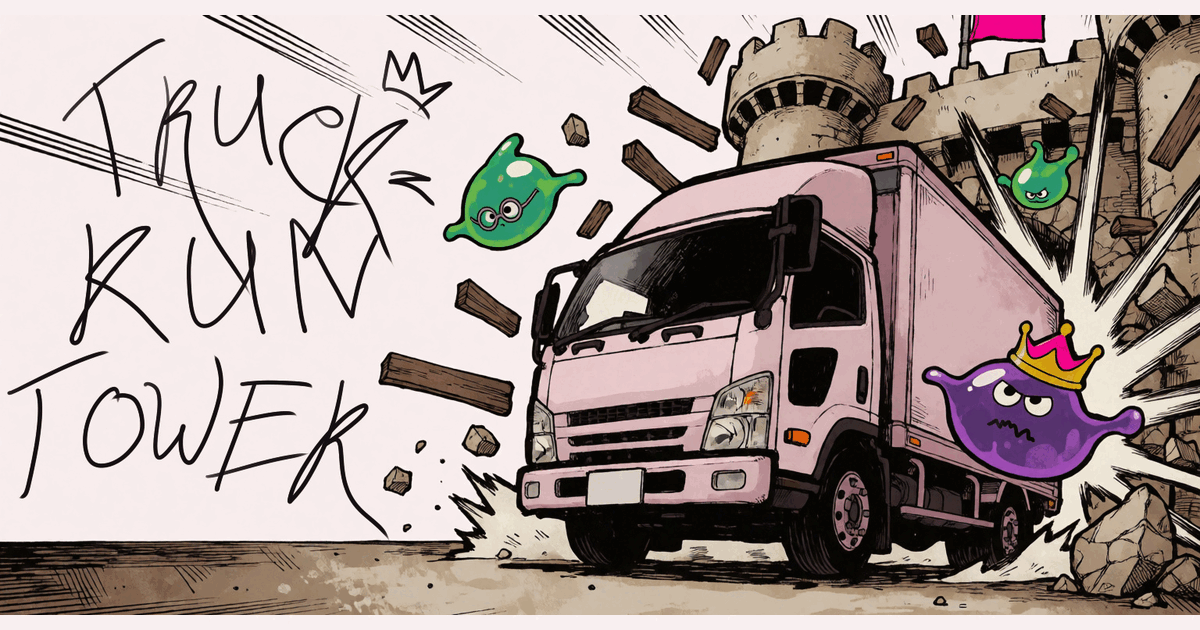
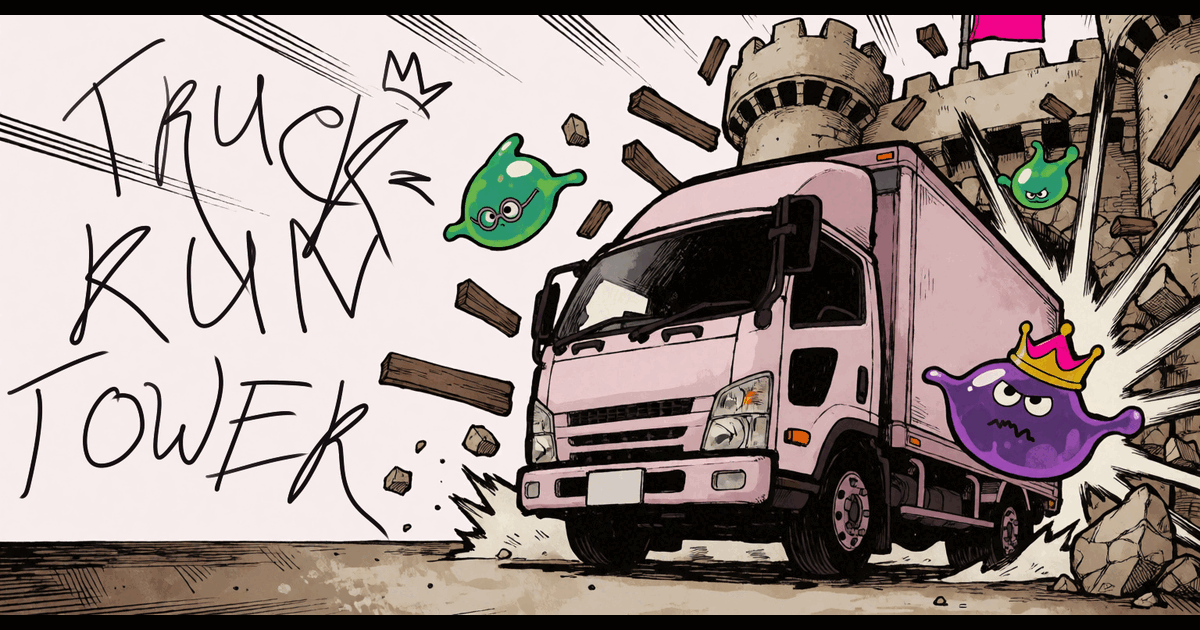
Frame the link preview in black
A share card is shown on whatever ground a messenger uses, so the margin
of the 1200×630 preview takes black: the same bars read as a frame on the
light ground and as a frame on the dark one, where the artwork's own paper
glowed white. The banner keeps the paper colour, because a bot profile
shows it on a light page.

Assisted-by: pi:gpt-6.2-sol (mostly)

Changed region(s): [[0.0, 0.9651, 1.0, 1.0], [0.0, 0.0, 1.0, 0.0302]]

diff --git a/AGENTS.md b/AGENTS.md
@@ -60,5 +60,5 @@ docker run --rm --network=host -v "$PWD:/src" -v nuget-cache:/root/.nuget/packag
 
 - `docs/` holds what the README and the old bot profile needed: a 640×360 banner, a 640×360 demo GIF and a 512×512 avatar. They are not game sources
 - `ASSETS.md` names every borrowed font and the vendored theme
-- `docs/truck-kun-tower.jpg` is the one artwork behind `docs/telegram-banner.png` (640×360) and `docs/og.png` (1200×630, the link preview the page names in `og:image`). `node tools/banner.mjs` draws both and copies the preview to `wwwroot/og.png`, which the site serves: the picture is fitted to each frame's width on the artwork's own paper colour, because a crop would cut the drawn wordmark and a stretch would show a longer truck than the drawing has
+- `docs/truck-kun-tower.jpg` is the one artwork behind `docs/telegram-banner.png` (640×360) and `docs/og.png` (1200×630, the link preview the page names in `og:image`). `node tools/banner.mjs` draws both and copies the preview to `wwwroot/og.png`, which the site serves: the picture is fitted to each frame's width, so a crop cannot cut the drawn wordmark and a stretch cannot lengthen the truck. The banner takes the artwork's own paper colour in its margin; the preview takes black, which frames the picture on a messenger's light and dark ground alike
 - `node tools/icons.mjs` draws the favicon set from `docs/logo.png`: `wwwroot/favicon.ico` at 16, 32 and 48, `wwwroot/icon-192.png`, `wwwroot/icon-512.png` and `wwwroot/apple-touch-icon.png`, which `wwwroot/site.webmanifest` and the page's icon links name

diff --git a/tools/README.md b/tools/README.md
@@ -37,7 +37,7 @@ node tools/banner.mjs
 ```
 
 The artwork is 2:1 and both frames are wider than tall, so the picture is fitted to the frame's
-width and the rest of the frame takes the artwork's own paper colour, read from its top-left pixel.
+The artwork is 2:1 and both frames are wider than tall, so the picture is fitted to the frame's width. A crop would cut the drawn wordmark or the keep, and a stretch would show a longer truck than the drawing has. The banner fills the margin with the artwork's own paper colour, read from its top-left pixel; the link preview fills it with black, so the frame holds on a messenger's light and dark ground alike
 A crop would cut the drawn wordmark or the keep, and a stretch would show a longer truck than the
 drawing has
 
